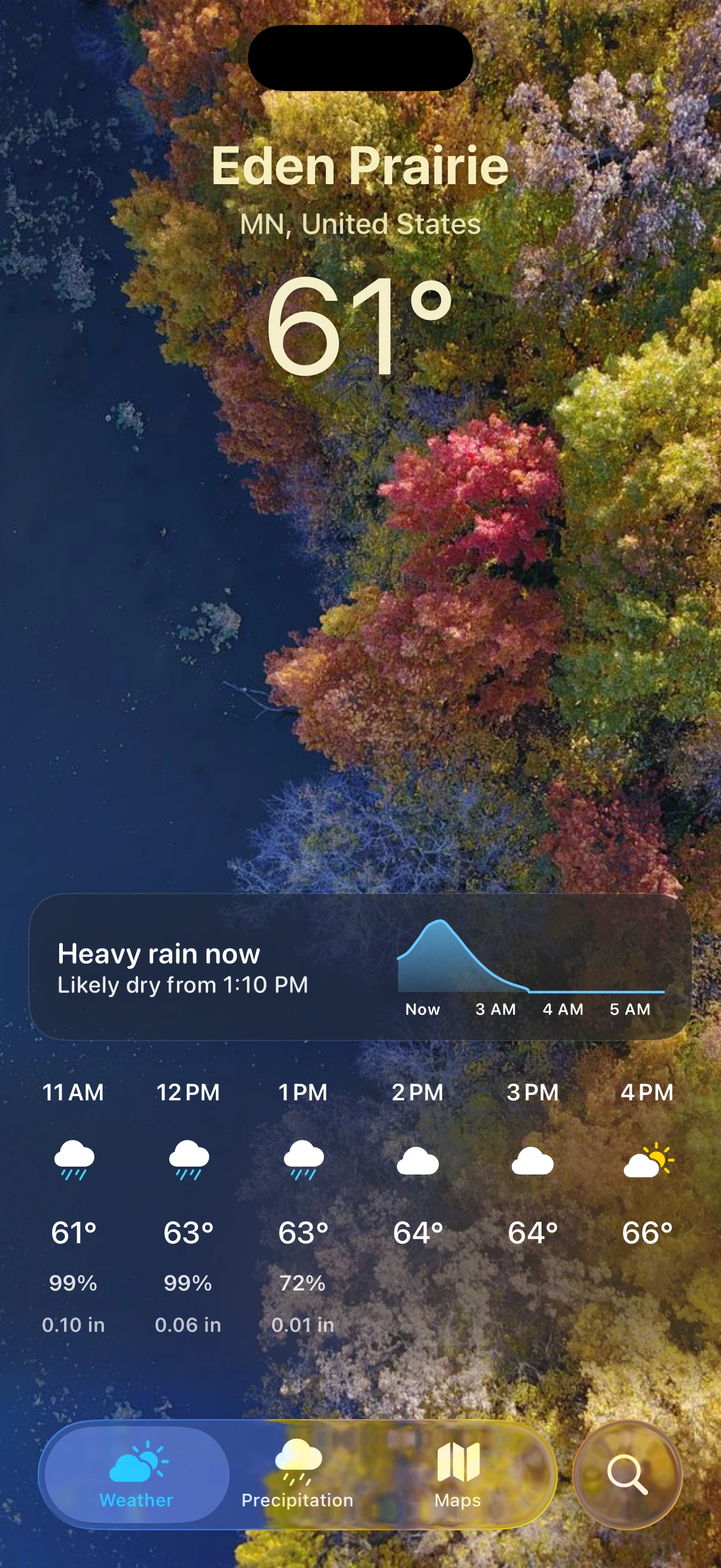
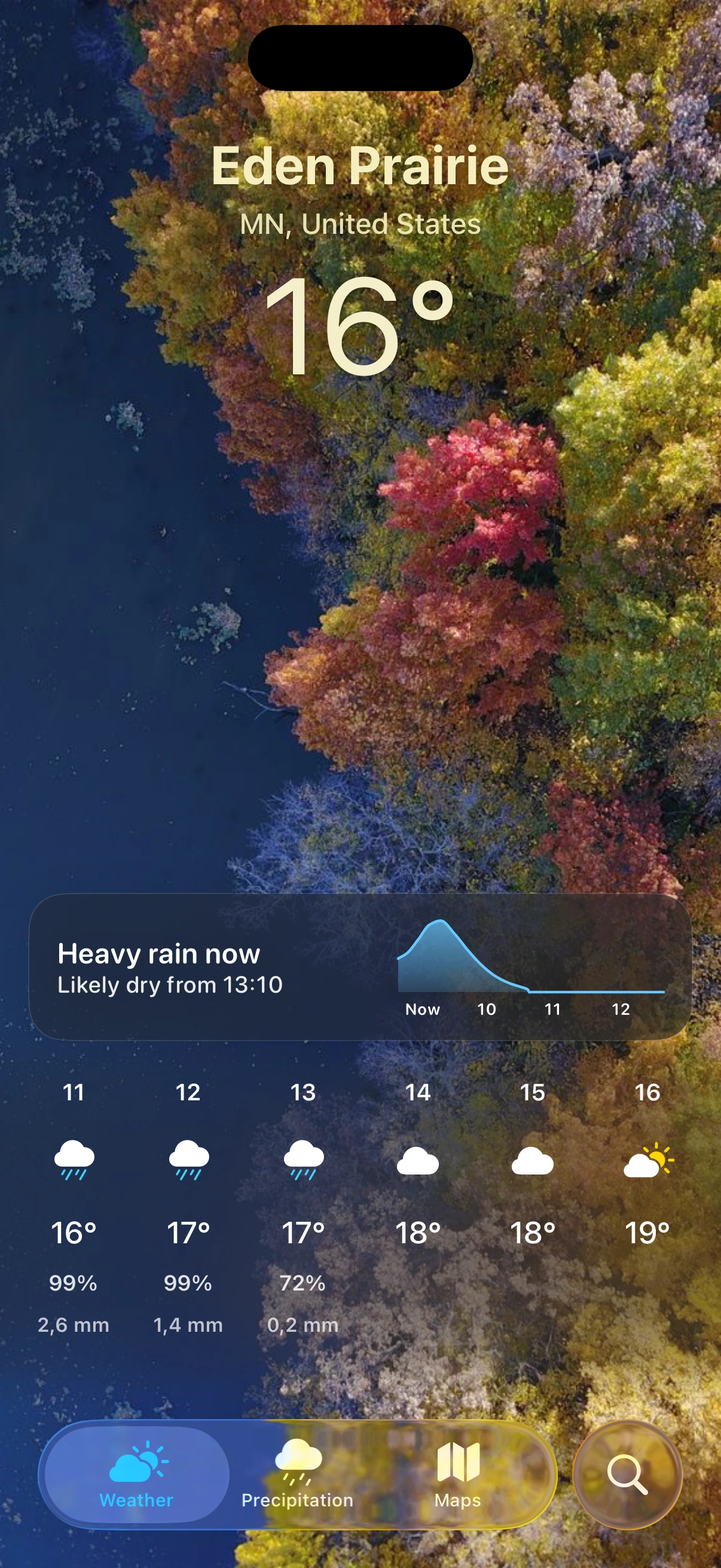
Conditional Eden Prairie Celsius

diff --git a/dist/index.html b/dist/index.html
@@ -4,7 +4,7 @@
 			[data-astro-transition-fallback="old"][data-astro-transition-scope="astro-l7r54iwe-1"] { animation: none; mix-blend-mode: normal; }[data-astro-transition-fallback="new"] [data-astro-transition-scope="astro-l7r54iwe-1"],
 			[data-astro-transition-fallback="new"][data-astro-transition-scope="astro-l7r54iwe-1"] { animation: none; mix-blend-mode: normal; }</style></head> <body>  <main class="site-shell"> <section class="vista-hero" data-astro-transition-scope="astro-l7r54iwe-1"> <img class="vista-hero-photo" src="/satellite-hero-20261009.jpg" alt=""> <div class="vista-hero-shade" data-astro-transition-persist="astro-tpw7oqt3-2"></div> <header class="hero-nav" data-astro-transition-persist="site-nav"> <a class="brand" href="/"> <span class="brand-mark" aria-hidden="true"> <img src="/favicon.webp" alt="" width="52" height="52" loading="eager"> </span> <span>Vista Weather</span> </a> </header>  <div class="hero-content" id="app"> <div class="hero-copy"> <h1><span>All-in-One</span> <span>Weather App</span></h1> <p class="hero-dek">
 Accurate forecasts, ultra-HD weather maps, and minute-by-minute rain forecasts
-</p> <div class="hero-actions"> <a href="https://apps.apple.com/us/app/id6768575893" class="store-badge-official" aria-label="Download on the App Store" target="_blank" rel="noopener noreferrer" data-astro-cid-53fd27s5><img src="/_astro/app-store-badge.BoTnyPUf.svg" alt="Download on the App Store" width="196" height="58" data-astro-cid-53fd27s5></a> <button class="waitlist-button" type="button" data-waitlist-open> <span>Join Android waitlist</span> <span class="waitlist-button-note">Expected Dec '26</span> </button> </div> </div> <div class="hero-phones" aria-label="Vista Weather phone mockups"> <div class="phone-case phone-case-primary"> <div class="phone-screen-placeholder"> <picture class="responsive-screenshot phone-screen-picture"> <source type="image/webp" srcset="/images/vista-weather-san-francisco-weather-forecast-celsius.webp" data-webp-source> <img src="/press/vista-weather-san-francisco-weather-forecast-celsius.png" alt="Vista Weather weather forecast for San Francisco in Celsius" class="phone-screen-image" loading="eager" decoding="async" data-us-image-src="/images/vista-weather-san-francisco-weather-forecast-fahrenheit.webp" data-us-original-src="/press/vista-weather-san-francisco-weather-forecast-fahrenheit.png" data-us-image-alt="Vista Weather weather forecast for San Francisco in Fahrenheit"> </picture> </div> </div> </div> </div> <div class="storm-map" data-storm-map role="group" aria-label="Interactive storm tracks"> <svg class="storm-map-lines" data-storm-lines aria-hidden="true"></svg> </div>  <aside class="storm-callouts" aria-label="Storm trajectory details"> <article class="storm-callout storm-callout-rachel" id="storm-callout-rachel" data-storm-callout="rachel" aria-label="Tropical Storm Rachel details"> <p class="storm-callout-time">Fri, Oct 9 · <time datetime="2026-10-09T19:00:00Z" data-clock-hour="15" data-clock-minute="0">3:00 PM</time></p> <p class="storm-callout-name">Tropical Storm Rachel</p> <p class="storm-callout-detail" data-wind-speed data-max-wind-mph="50" data-direction="NE" data-moving-speed-mph="5">Max winds 80 kmh<br>Moving NE at 10 kmh</p> </article> <article class="storm-callout storm-callout-isaias" id="storm-callout-isaias" data-storm-callout="isaias" aria-label="Hurricane Isaias details"> <p class="storm-callout-time">Fri, Oct 9 · <time datetime="2026-10-09T19:00:00Z" data-clock-hour="15" data-clock-minute="0">3:00 PM</time></p> <p class="storm-callout-name">Hurricane Isaias</p> <p class="storm-callout-detail" data-wind-speed data-max-wind-mph="120" data-direction="N" data-moving-speed-mph="17">Max winds 200 kmh<br>Moving N at 30 kmh</p> </article> <article class="storm-callout storm-callout-simon" id="storm-callout-simon" data-storm-callout="simon" aria-label="Hurricane Simon details" hidden> <p class="storm-callout-time">Fri, Oct 9 · <time datetime="2026-10-09T19:00:00Z" data-clock-hour="15" data-clock-minute="0">3:00 PM</time></p> <p class="storm-callout-name">Hurricane Simon</p> <p class="storm-callout-detail" data-wind-speed data-max-wind-mph="100" data-direction="NW" data-moving-speed-mph="2">Max winds 160 kmh<br>Moving NW at 5 kmh</p> </article> </aside>  </section> <section class="features-section" id="features"> <h2 class="features-title">Advanced Forecast Tools</h2> <article class="feature-block"> <div class="feature-copy"> <h3>Minute-by-Minute Rain</h3>  <p>See exactly when rain will start, stop, and how intense it will be — down to the minute, for the next 4 hours. Highly accurate with hyper-local precision.</p>  </div> <div class="feature-media">  <div class="phone-case phone-case-feature"> <div class="phone-screen-placeholder"> <picture class="responsive-screenshot phone-screen-picture"> <source type="image/webp" srcset="/images/vista-weather-eden-prairie-minute-by-minute-rain-forecast.webp" data-webp-source> <img src="/press/vista-weather-eden-prairie-minute-by-minute-rain-forecast.png" alt="Vista Weather minute-by-minute rain forecast for Eden Prairie" class="phone-screen-image" loading="lazy" decoding="async"> </picture> </div>  </div>  </div> </article><article class="feature-block"> <div class="feature-copy"> <h3>Ultra-HD Weather Maps</h3>  <p>See the bigger picture with ultra-HD maps. While other apps rely on low-resolution data, we capture the details they miss, delivering more accurate forecasts across cities, valleys, and mountains.</p> <div class="map-detail-accordion"> <div class="data-sources-action map-detail-action"> <button class="data-sources-trigger" type="button" id="maps-detail-toggle" data-maps-detail-toggle aria-expanded="false" aria-controls="maps-detail-panel"> <span>What makes our weather maps more detailed?</span> <svg viewBox="0 0 20 20" aria-hidden="true"> <path d="m5 7.5 5 5 5-5"></path> </svg> </button> </div> <div class="map-detail-panel" id="maps-detail-panel" data-maps-detail-panel role="region" aria-labelledby="maps-detail-toggle" hidden> <p>
+</p> <div class="hero-actions"> <a href="https://apps.apple.com/us/app/id6768575893" class="store-badge-official" aria-label="Download on the App Store" target="_blank" rel="noopener noreferrer" data-astro-cid-53fd27s5><img src="/_astro/app-store-badge.BoTnyPUf.svg" alt="Download on the App Store" width="196" height="58" data-astro-cid-53fd27s5></a> <button class="waitlist-button" type="button" data-waitlist-open> <span>Join Android waitlist</span> <span class="waitlist-button-note">Expected Dec '26</span> </button> </div> </div> <div class="hero-phones" aria-label="Vista Weather phone mockups"> <div class="phone-case phone-case-primary"> <div class="phone-screen-placeholder"> <picture class="responsive-screenshot phone-screen-picture"> <source type="image/webp" srcset="/images/vista-weather-san-francisco-weather-forecast-celsius.webp" data-webp-source> <img src="/press/vista-weather-san-francisco-weather-forecast-celsius.png" alt="Vista Weather weather forecast for San Francisco in Celsius" class="phone-screen-image" loading="eager" decoding="async" data-us-image-src="/images/vista-weather-san-francisco-weather-forecast-fahrenheit.webp" data-us-original-src="/press/vista-weather-san-francisco-weather-forecast-fahrenheit.png" data-us-image-alt="Vista Weather weather forecast for San Francisco in Fahrenheit"> </picture> </div> </div> </div> </div> <div class="storm-map" data-storm-map role="group" aria-label="Interactive storm tracks"> <svg class="storm-map-lines" data-storm-lines aria-hidden="true"></svg> </div>  <aside class="storm-callouts" aria-label="Storm trajectory details"> <article class="storm-callout storm-callout-rachel" id="storm-callout-rachel" data-storm-callout="rachel" aria-label="Tropical Storm Rachel details"> <p class="storm-callout-time">Fri, Oct 9 · <time datetime="2026-10-09T19:00:00Z" data-clock-hour="15" data-clock-minute="0">3:00 PM</time></p> <p class="storm-callout-name">Tropical Storm Rachel</p> <p class="storm-callout-detail" data-wind-speed data-max-wind-mph="50" data-direction="NE" data-moving-speed-mph="5">Max winds 80 kmh<br>Moving NE at 10 kmh</p> </article> <article class="storm-callout storm-callout-isaias" id="storm-callout-isaias" data-storm-callout="isaias" aria-label="Hurricane Isaias details"> <p class="storm-callout-time">Fri, Oct 9 · <time datetime="2026-10-09T19:00:00Z" data-clock-hour="15" data-clock-minute="0">3:00 PM</time></p> <p class="storm-callout-name">Hurricane Isaias</p> <p class="storm-callout-detail" data-wind-speed data-max-wind-mph="120" data-direction="N" data-moving-speed-mph="17">Max winds 200 kmh<br>Moving N at 30 kmh</p> </article> <article class="storm-callout storm-callout-simon" id="storm-callout-simon" data-storm-callout="simon" aria-label="Hurricane Simon details" hidden> <p class="storm-callout-time">Fri, Oct 9 · <time datetime="2026-10-09T19:00:00Z" data-clock-hour="15" data-clock-minute="0">3:00 PM</time></p> <p class="storm-callout-name">Hurricane Simon</p> <p class="storm-callout-detail" data-wind-speed data-max-wind-mph="100" data-direction="NW" data-moving-speed-mph="2">Max winds 160 kmh<br>Moving NW at 5 kmh</p> </article> </aside>  </section> <section class="features-section" id="features"> <h2 class="features-title">Advanced Forecast Tools</h2> <article class="feature-block"> <div class="feature-copy"> <h3>Minute-by-Minute Rain</h3>  <p>See exactly when rain will start, stop, and how intense it will be — down to the minute, for the next 4 hours. Highly accurate with hyper-local precision.</p>  </div> <div class="feature-media">  <div class="phone-case phone-case-feature"> <div class="phone-screen-placeholder"> <picture class="responsive-screenshot phone-screen-picture"> <source type="image/webp" srcset="/images/vista-weather-eden-prairie-minute-by-minute-rain-forecast.webp" data-webp-source> <img src="/press/vista-weather-eden-prairie-minute-by-minute-rain-forecast.png" alt="Vista Weather minute-by-minute rain forecast for Eden Prairie in Celsius" class="phone-screen-image" loading="lazy" decoding="async" data-us-image-src="/images/vista-weather-eden-prairie-minute-by-minute-rain-forecast-fahrenheit.webp" data-us-original-src="/press/vista-weather-eden-prairie-minute-by-minute-rain-forecast-fahrenheit.png" data-us-image-alt="Vista Weather minute-by-minute rain forecast for Eden Prairie in Fahrenheit"> </picture> </div>  </div>  </div> </article><article class="feature-block"> <div class="feature-copy"> <h3>Ultra-HD Weather Maps</h3>  <p>See the bigger picture with ultra-HD maps. While other apps rely on low-resolution data, we capture the details they miss, delivering more accurate forecasts across cities, valleys, and mountains.</p> <div class="map-detail-accordion"> <div class="data-sources-action map-detail-action"> <button class="data-sources-trigger" type="button" id="maps-detail-toggle" data-maps-detail-toggle aria-expanded="false" aria-controls="maps-detail-panel"> <span>What makes our weather maps more detailed?</span> <svg viewBox="0 0 20 20" aria-hidden="true"> <path d="m5 7.5 5 5 5-5"></path> </svg> </button> </div> <div class="map-detail-panel" id="maps-detail-panel" data-maps-detail-panel role="region" aria-labelledby="maps-detail-toggle" hidden> <p>
 Weather services provide forecasts using grids made up of squares, sometimes as small as 1 × 1 km each. The smaller these squares, the more local detail a forecast can capture, including differences in temperature, wind, and precipitation across mountains, valleys, and cities.
 </p> <p>
 However, transmitting weather data at its original resolution requires enormous amounts of data. To reduce costs, many weather apps use coarser grids with much larger squares (e.g., 100 × 100 km). They then estimate weather conditions between grid points using a technique called <em>interpolation</em>, making the maps appear more detailed than the underlying data actually is. While this saves data, it results in far less accurate forecasts, especially in cities and areas with complex terrain.
